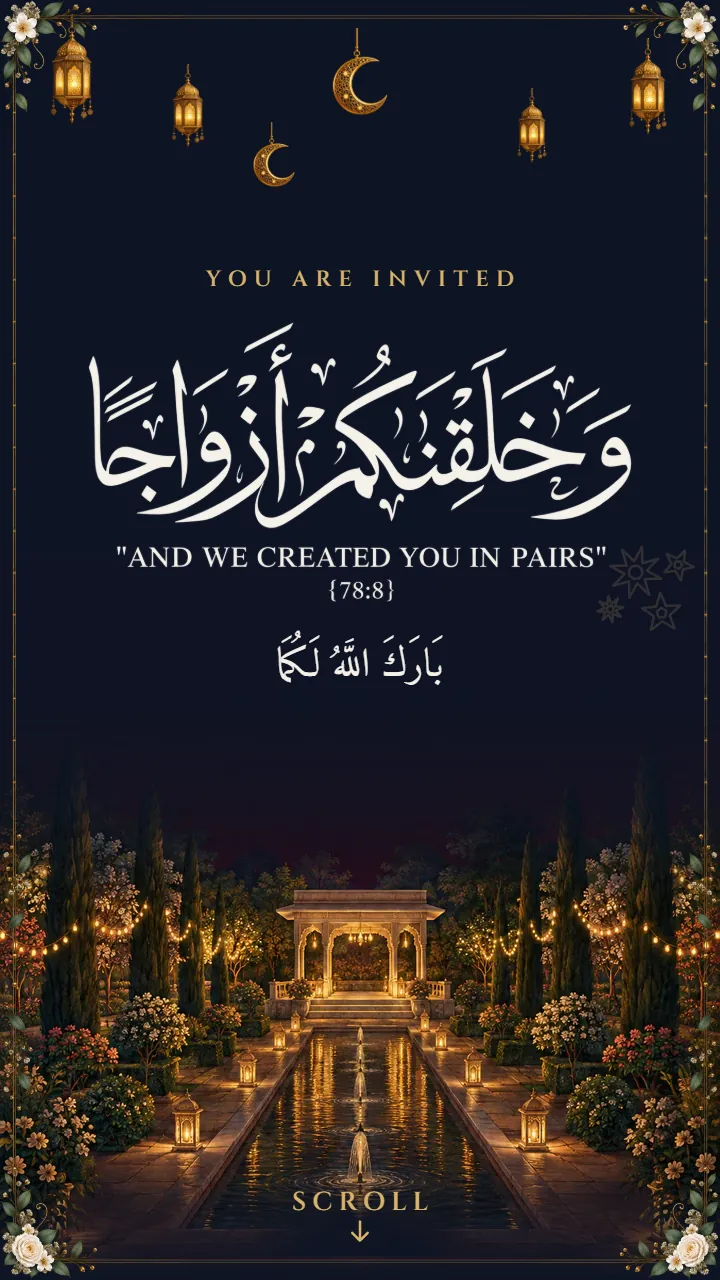
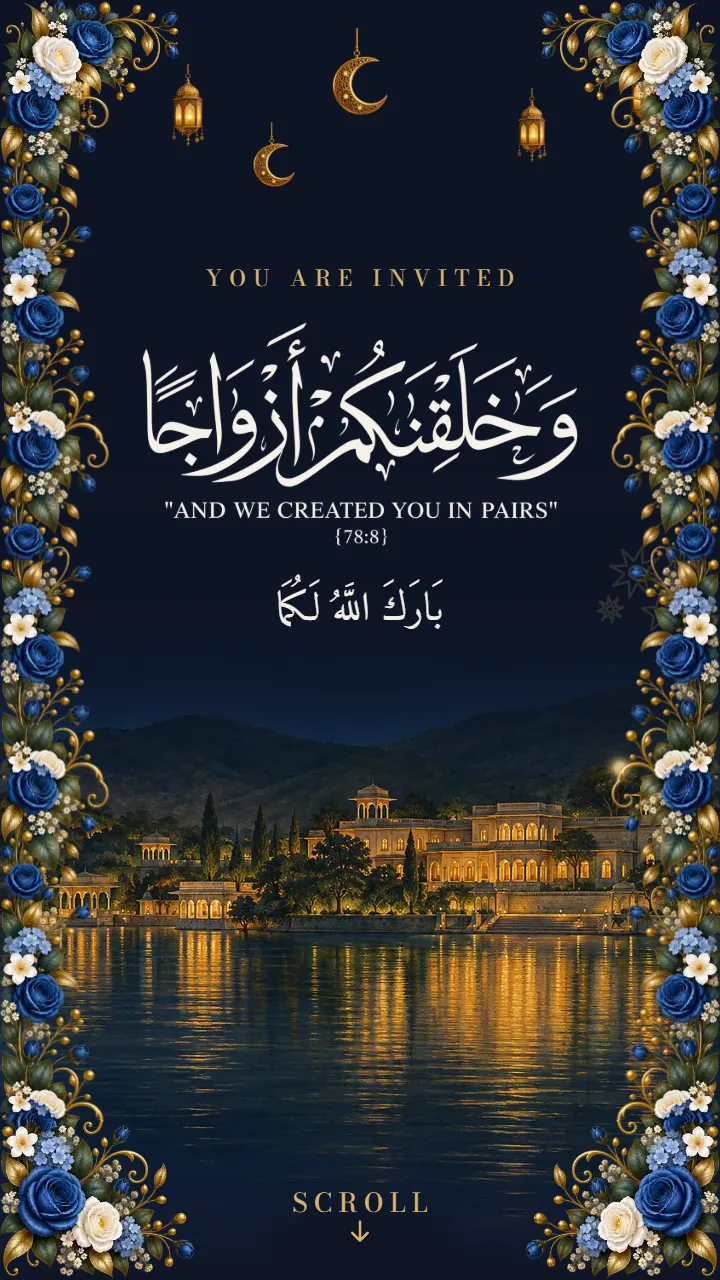
style(traditions): new look for Midnight Lantern
Night blue framed in blue roses on gold scrollwork (flowerBlue, in place of the thin noir line), and on the first screen the lake palace by night, its lights on the water under the lanterns, in place of the night garden it shared with Maroon Royal. Fireflies drift over it. The cover is the breeze drawn on the card's own navy, in place of the maroon velvet curtain, which goes to Maroon Royal; names in Bodoni (luxe); mogra garlands between sections. Lanterns, crescent, stars, the marriage verse and the royal scroll as before.

Gallery preview remade. Saved cards keep the look they were saved with.

diff --git a/lib/presets.ts b/lib/presets.ts
@@ -281,7 +281,7 @@ const PRESETS: readonly Preset[] = [
   {
     id: "midnight-lantern",
     name: "Midnight Lantern",
-    description: "Night blue and gold, lanterns, moons, stars and a royal scroll.",
+    description: "Night blue, blue roses and gold, lanterns over the moonlit lake, fireflies.",
     tradition: "muslim",
     settings: {
       paletteId: "midnight",
@@ -289,15 +289,19 @@ const PRESETS: readonly Preset[] = [
       dateReveal: "scroll",
       /* Midnight's own accent is already the gold this look is named for. */
       accentOverride: null,
-      fontPairId: "regal",
+      fontPairId: "luxe",
       density: "comfortable",
-      borderStyle: "flowerNoir",
+      /* Blue roses on gold scrollwork, the night's own colour. */
+      borderStyle: "flowerBlue",
       decorMotion: "float",
       decorIntensity: "subtle",
-      butterflies: "none",
+      /* On, so something flies; what flies is fireflies, not butterflies. */
+      butterflies: "yellow",
+      flying: "fireflies",
       leaves: false,
       petals: "none",
-      coverAnimation: "curtain-reveal",
+      /* The breeze, drawn on the card's own navy. */
+      coverAnimation: "petal-dust",
       ornaments: ["lantern", "crescentMoon", "stars"],
       /* The marriage verse, so this look does not open the way the other three do. */
       calligraphy: "versePairs",

diff --git a/templates/midnight-lantern/config.ts b/templates/midnight-lantern/config.ts
@@ -5,6 +5,9 @@ import type { TemplateConfig } from "@/templates/types";
 /**
  * The "midnight-lantern" preset as a template: its look from lib/presets.ts, and
  * the colourways and type pairs a host may change it to. See presetTemplate.
+ *
+ * Its painting is the lake palace by night, its lights on the water under the
+ * lanterns; mogra garlands part its sections.
  */
 export const MIDNIGHT_LANTERN: TemplateConfig = presetTemplate({
   presetId: "midnight-lantern",
@@ -14,5 +17,7 @@ export const MIDNIGHT_LANTERN: TemplateConfig = presetTemplate({
     plain("maroon", "maroon"),
     { id: "forest", label: "Forest", paletteId: "forest", accentOverride: GOLD },
   ],
-  fontPairs: ["royal", "luxe"],
+  fontPairs: ["regal", "royal"],
+  scene: "lakePalace",
+  divider: "mogra",
 });
